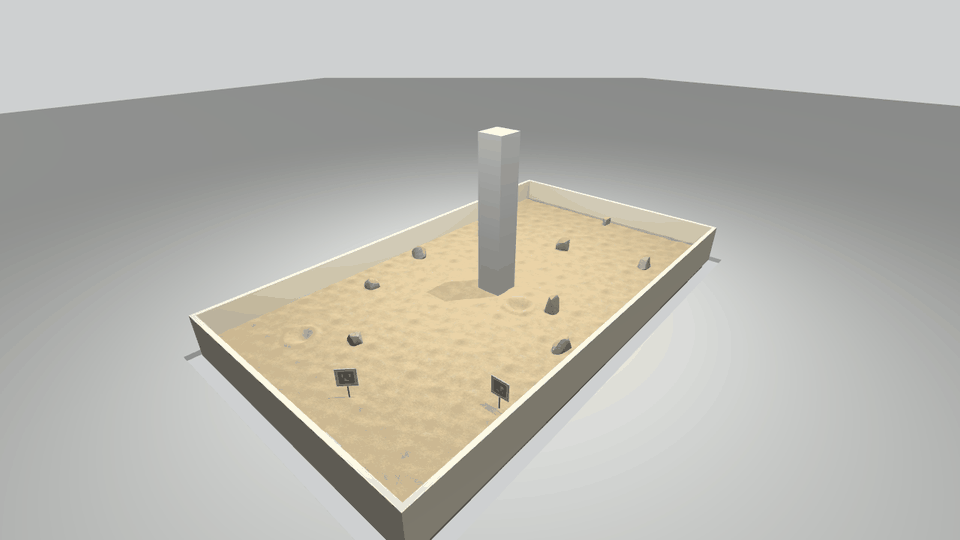
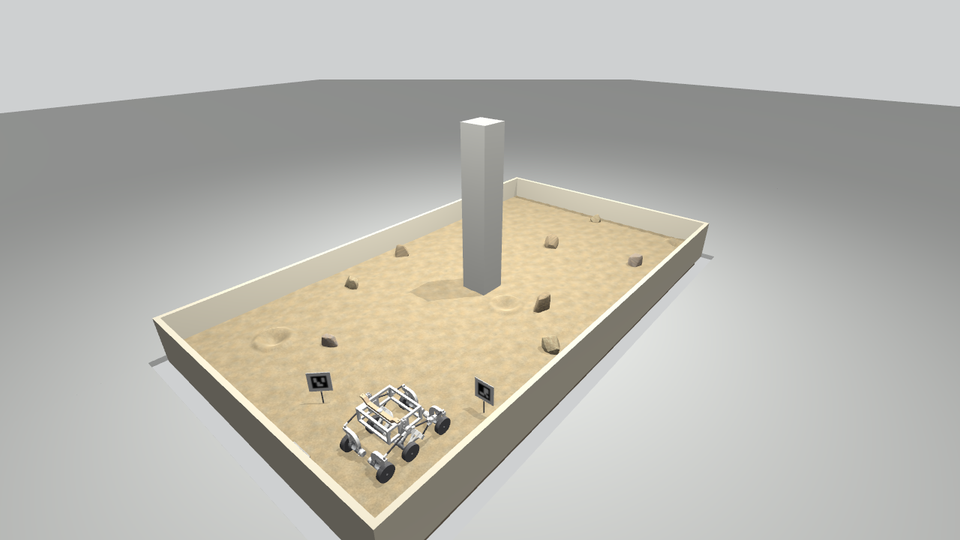
cac_sim README: images with the team's rover in the start zone
Overview, rover close-up (rocker-bogie, PLA joints, CF rods), a view from
the rover's front at 0.6 m, and the layout map. Checked separately: the
rover settles upright within 3 mm of the start pose for seeds 1-10 with
markers, at headings from -175 to +166 deg.

diff --git a/src/cac_sim/README.md b/src/cac_sim/README.md
@@ -13,9 +13,11 @@ Gazebo Harmonic model of the 9 x 5 m CAC 2027 sand arena (tilled sand, boulders,
 - **SE(2) path check:** a check that a 1.5 x 0.75 m rover can actually drive AND turn through the field.
 - **Seed:** a number that fixes the random layout. Same seed, same arena.
 
-| Robot view from the start zone | Overview | Layout (`truth/map.png`) |
-|---|---|---|
-| ![robot view](docs/arena_robot_view.png) | ![overview](docs/arena_overview.png) | ![map](docs/arena_map.png) |
+| Overview, rover in the start zone | Rover close-up (the team's rover, `cac_description`) |
+|---|---|
+| ![overview](docs/arena_overview.png) | ![rover](docs/arena_rover.png) |
+| **From the rover's front, 0.6 m up** | **Layout map (`truth/map.png`)** |
+| ![robot view](docs/arena_robot_view.png) | ![map](docs/arena_map.png) |
 
 ## Run a world
 
